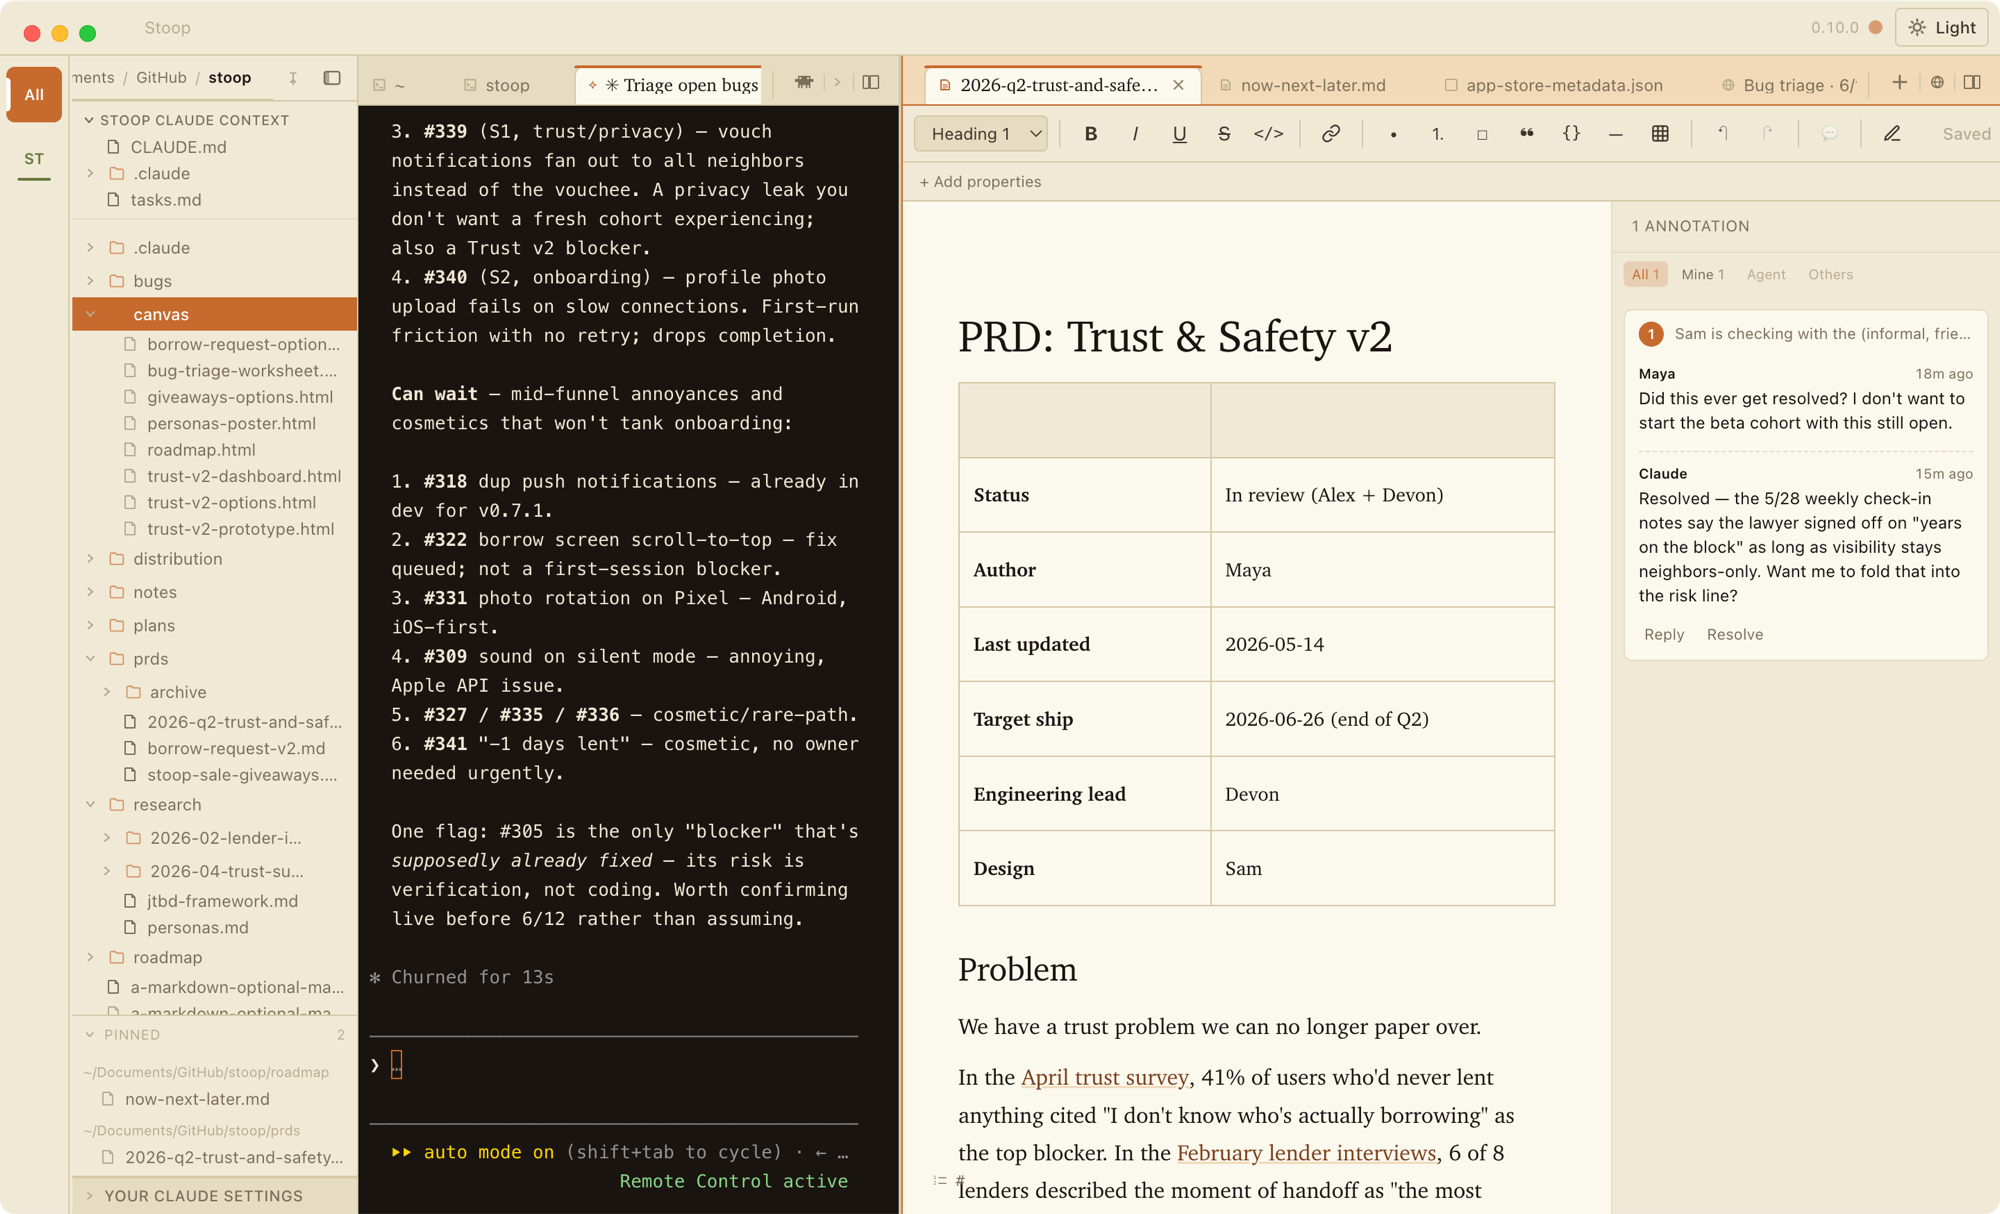
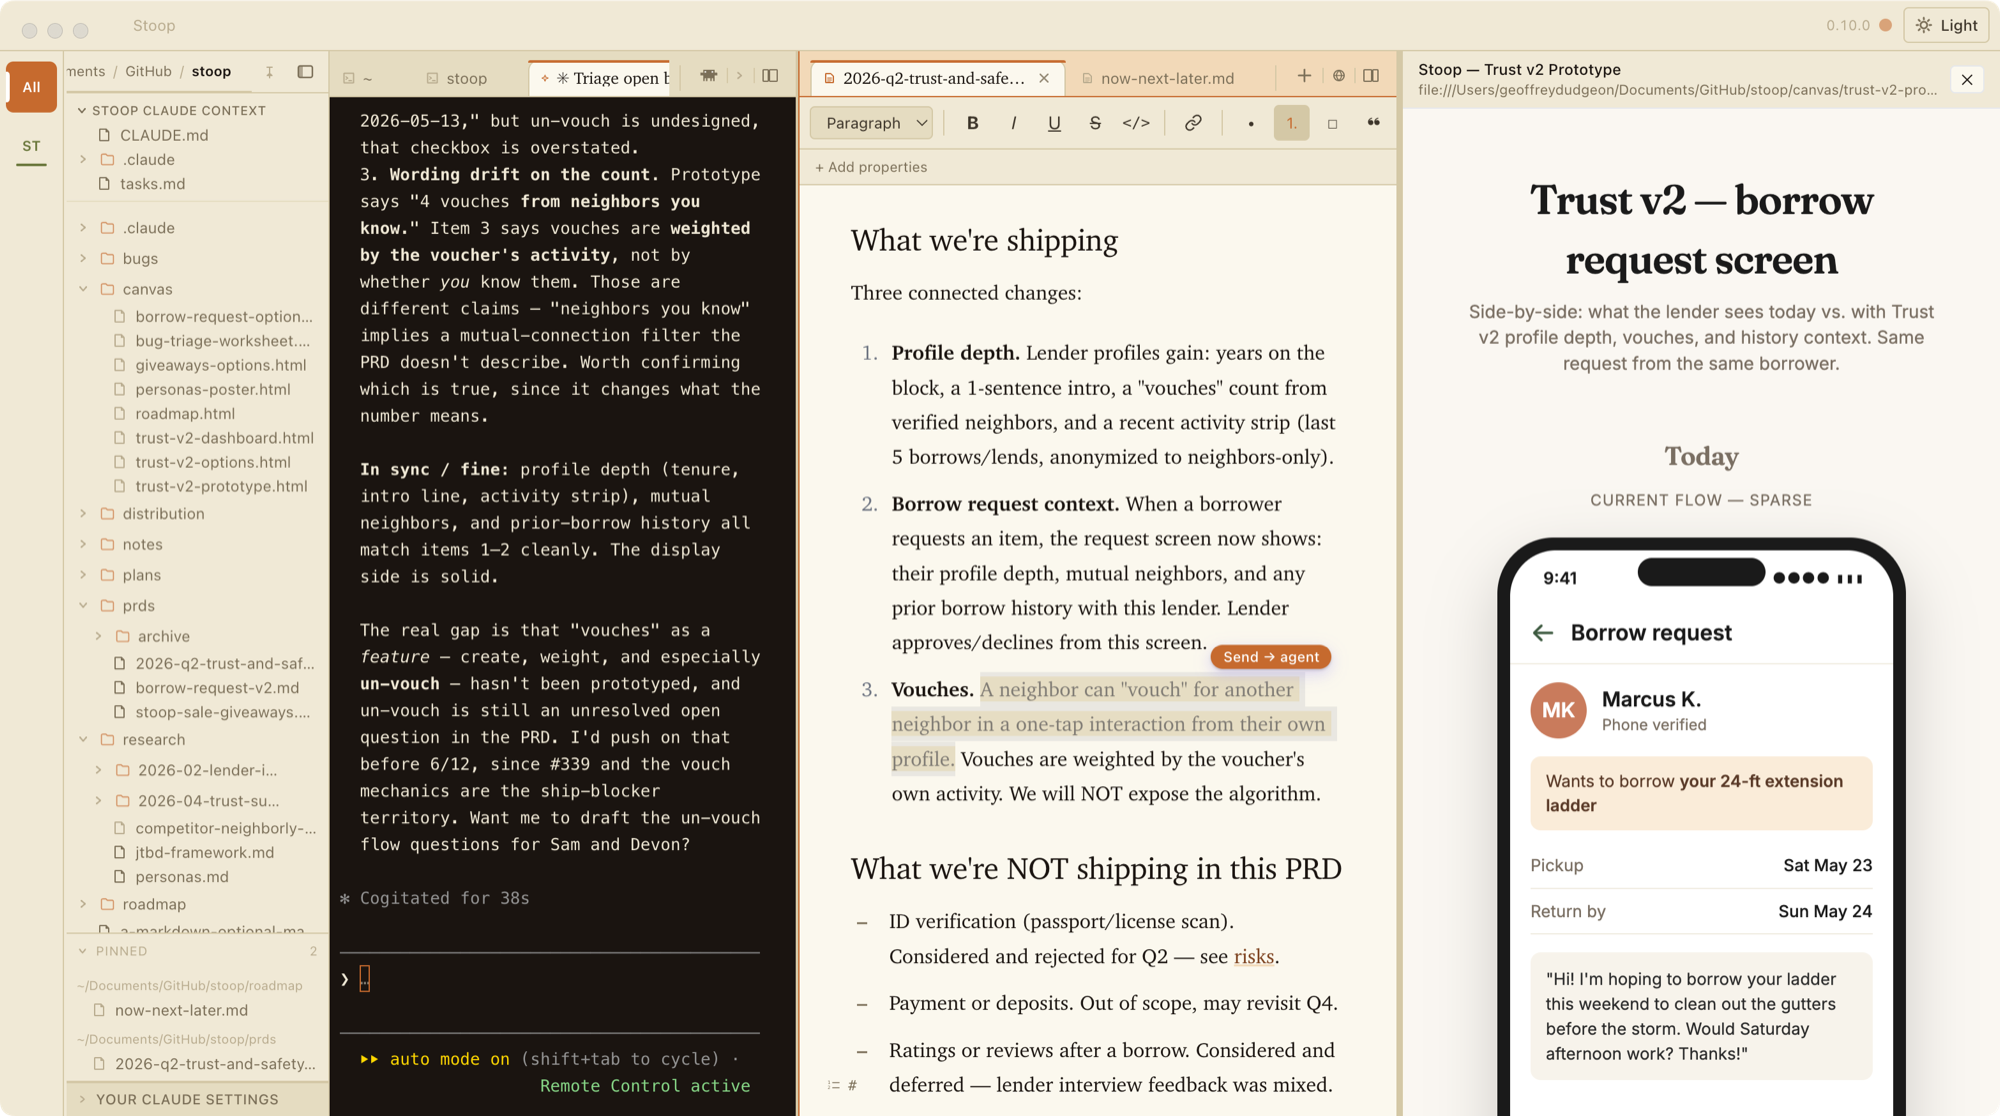
docs: restage about-duo hero shot — PRD + prototype split view, live send-to-agent pill
Replaces the static PRD-only main-window screenshot with a working
scene: Trust v2 PRD in the editor beside its prototype in split view,
a requirement selected with the Send → agent pill showing, and the
terminal mid-conversation about PRD/prototype drift. Comment rail
dropped from this shot (too squished at three columns); comments stay
showcased in the editor close-up.

diff --git a/docs/about-duo.md b/docs/about-duo.md
@@ -28,7 +28,7 @@ I built Duo, an agent-friendly IDE for product managers and knowledge workers. I
 
 Duo is free, open source, does not capture or send any of your data anywhere, and lets you work with whatever agent you want.
 
-![Duo's main window — file navigator on the left, terminal in the middle, and the working pane on the right, where documents and pages open](images/about-duo/main-window.png)
+![Duo's main window — the file navigator, a live Claude conversation, and the working pane in split view: a PRD beside the prototype it specifies, with a selected requirement one click from the conversation](images/about-duo/main-window.png)
 
 At its core, Duo is an IDE for knowledge work, with four main features:
 
